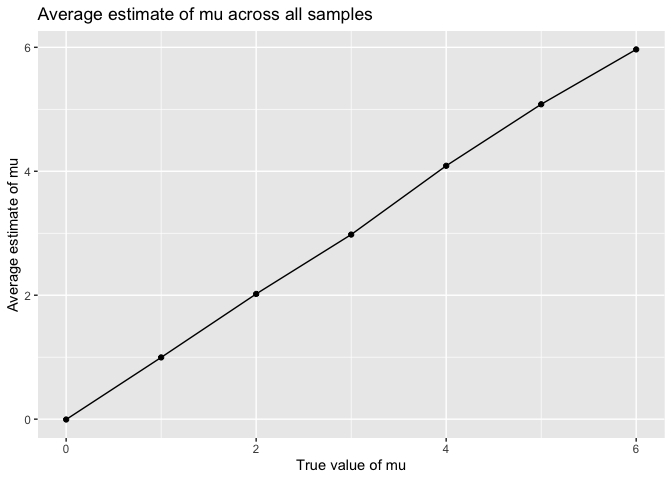
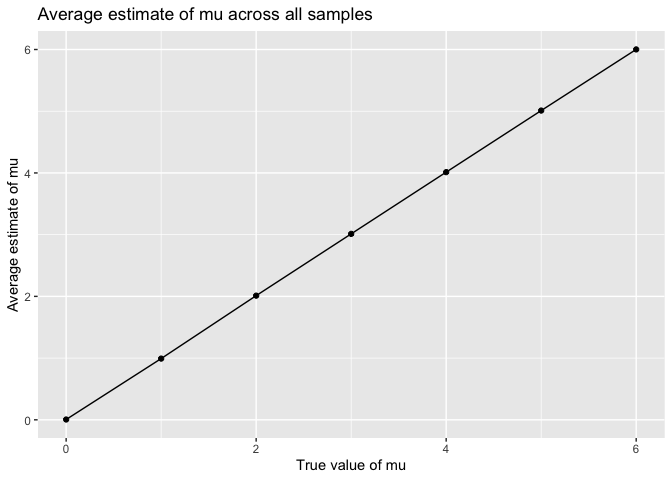
files

diff --git a/p8105_hw5_mjd2283.md b/p8105_hw5_mjd2283.md
@@ -203,7 +203,7 @@ sim_t_test = function(mu, n = 30, sigma = 5) {
 sim_results_df =
   expand_grid(
     true_mu = 0:6,
-    iter = 1:100
+    iter = 1:5000
   ) |>
   mutate(estimate_df = map(true_mu, sim_t_test)) |>
   unnest(estimate_df)
@@ -277,9 +277,9 @@ avg_est_rejected_df |>
 ![](p8105_hw5_mjd2283_files/figure-gfm/unnamed-chunk-11-1.png)<!-- -->
 
 Looking above, we see that the average estimate of mu in all samples is
-approximately equal to the true value of null. In comparison, when
-looking at the average estimate of mu for samples where the null is
-rejected, this value is not equal to the true value of mu (particularly
-earlier on where there is more bumps in the graph). After mu equals 4
-and onwards, the relationship looks more diagonal showing its more
-equivalent to the true value of mu.
+approximately equal to the true value of mu. In comparison, when looking
+at the average estimate of mu for samples where the null is rejected,
+this value is not equal to the true value of mu (particularly earlier on
+where there is more bumps in the graph). After mu equals 4 and onwards,
+the relationship looks more diagonal showing its more equivalent to the
+true value of mu.
